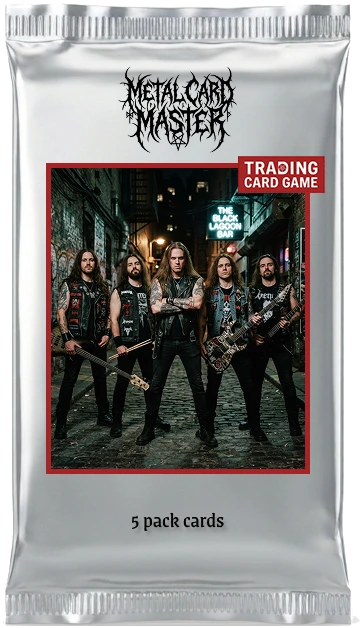
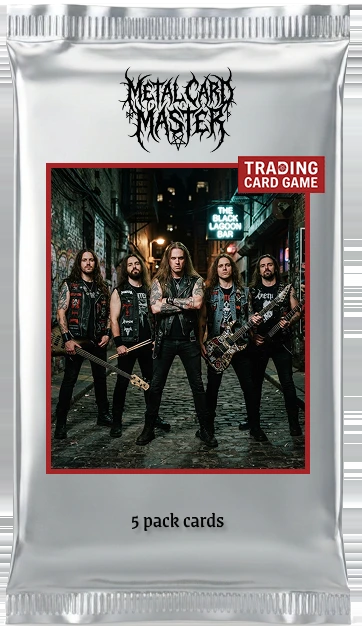
Adoucit le galbe sablier du paquet (vignette + ouverture)
Le clip-path galbé d'origine (.booster-body / .pack-closed) resserrait
trop fort les bords (~3.3 à 8 points), jugé disgracieux. Réduit à une
légère respiration (~1-2 points, bords quasi droits).

Le packshot metalcardmaster-pack.webp était dessiné pour l'ancien
contour resserré (transparence sur les côtés au-delà de ~5%) ; avec le
nouveau clip-path plus large, cette transparence laissait apparaître le
fond chromé du conteneur en bandes verticales. Image retouchée (fill
horizontal depuis le bord opaque) pour couvrir tout le nouveau cadre.

Claude-Session: https://claude.ai/code/session_011USd2GFXDhdV5wb4oV88fb

Changed region(s): [[0.942, 0.4538, 1.0, 0.9682], [0.0, 0.0, 0.0608, 0.9682], [0.942, 0.0, 1.0, 0.4236]]

diff --git a/index.html b/index.html
@@ -529,14 +529,15 @@ body::after {
 .booster-body {
   position: absolute; inset: 0;
   overflow: hidden;
+  /* v2 : silhouette adoucie — l'ancien polygone resserrait ~3.3 points de chaque côté façon
+     "sablier" très marqué, jugé disgracieux. Amplitude réduite à ~1 point, bords quasi droits,
+     juste une légère respiration pour ne pas avoir un rectangle parfaitement plat. */
   clip-path: polygon(
-    3.3% 0%, 96.4% 0%,
-    95.0% 10%, 94.3% 20%, 93.3% 30%, 92.7% 40%, 92.6% 50%,
-    92.4% 60%, 92.0% 70%, 91.4% 80%, 90.7% 87%,
-    91.4% 93%, 92.3% 100%,
-    6.0% 100%, 6.3% 93%, 7.6% 87%,
-    8.0% 80%, 8.0% 70%, 7.4% 60%, 7.0% 50%,
-    6.6% 40%, 6.1% 30%, 5.4% 20%, 4.6% 10%
+    1.0% 0%, 99.0% 0%,
+    98.5% 15%, 98.2% 35%, 98.1% 50%,
+    98.2% 65%, 98.5% 80%, 99.0% 93%, 99.3% 100%,
+    0.7% 100%, 1.0% 93%, 1.5% 80%,
+    1.8% 65%, 1.9% 50%, 1.8% 35%, 1.5% 15%
   );
   box-shadow:
     0 22px 40px -18px rgba(0,0,0,0.75),
@@ -1176,14 +1177,14 @@ body::after {
   width: auto; height: 100%; aspect-ratio: 0.58;
   max-width: 100%;
   overflow: hidden;
+  /* v2 : même silhouette adoucie que .booster-body (cf. commentaire là-bas) — bords quasi
+     droits au lieu du resserrement "sablier" prononcé d'origine. */
   clip-path: polygon(
-    3.3% 0%, 96.4% 0%,
-    95.0% 10%, 94.3% 20%, 93.3% 30%, 92.7% 40%, 92.6% 50%,
-    92.4% 60%, 92.0% 70%, 91.4% 80%, 90.7% 87%,
-    91.4% 93%, 92.3% 100%,
-    6.0% 100%, 6.3% 93%, 7.6% 87%,
-    8.0% 80%, 8.0% 70%, 7.4% 60%, 7.0% 50%,
-    6.6% 40%, 6.1% 30%, 5.4% 20%, 4.6% 10%
+    1.0% 0%, 99.0% 0%,
+    98.5% 15%, 98.2% 35%, 98.1% 50%,
+    98.2% 65%, 98.5% 80%, 99.0% 93%, 99.3% 100%,
+    0.7% 100%, 1.0% 93%, 1.5% 80%,
+    1.8% 65%, 1.9% 50%, 1.8% 35%, 1.5% 15%
   );
   box-shadow: 0 24px 56px -16px rgba(0,0,0,0.8), inset 0 0 0 1px rgba(255,255,255,0.08);
 }
